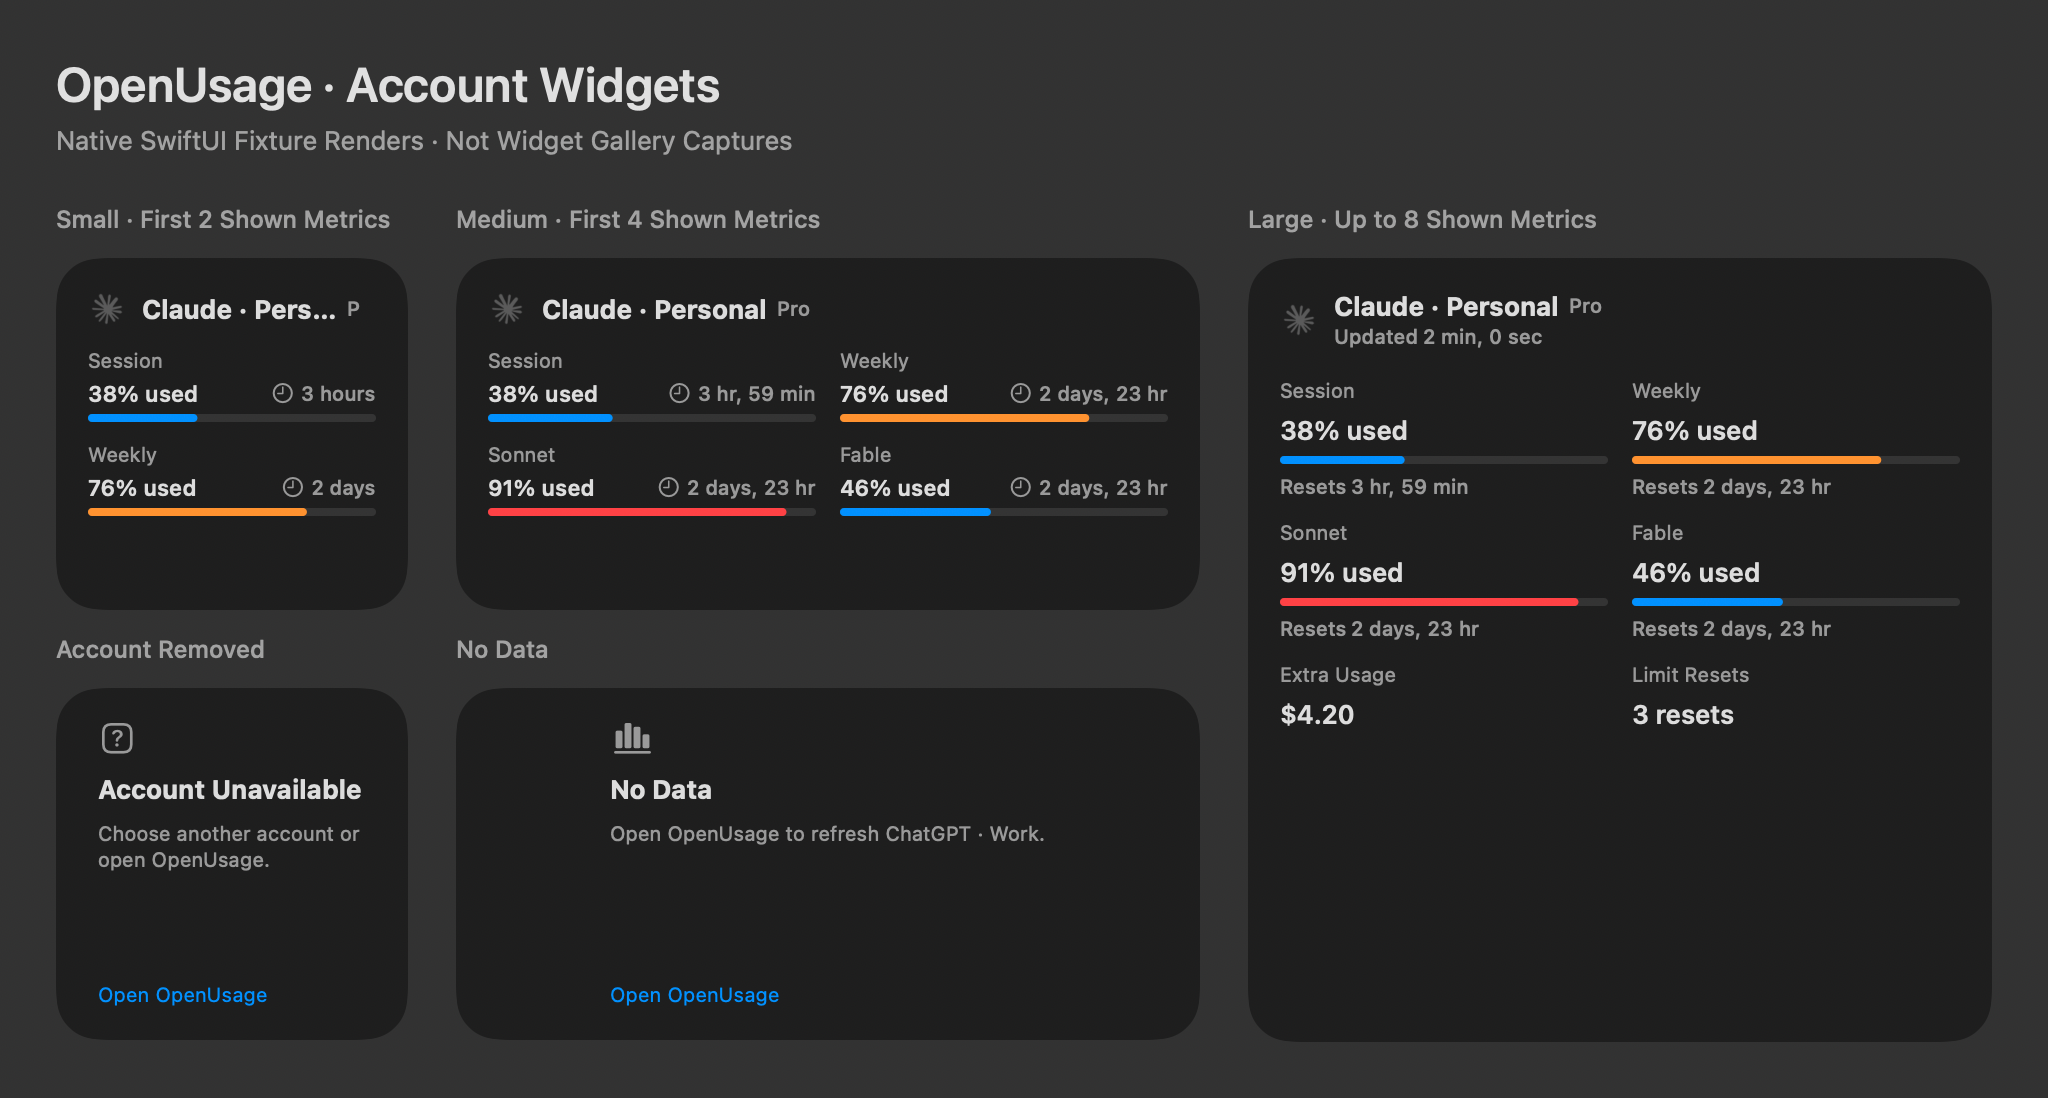
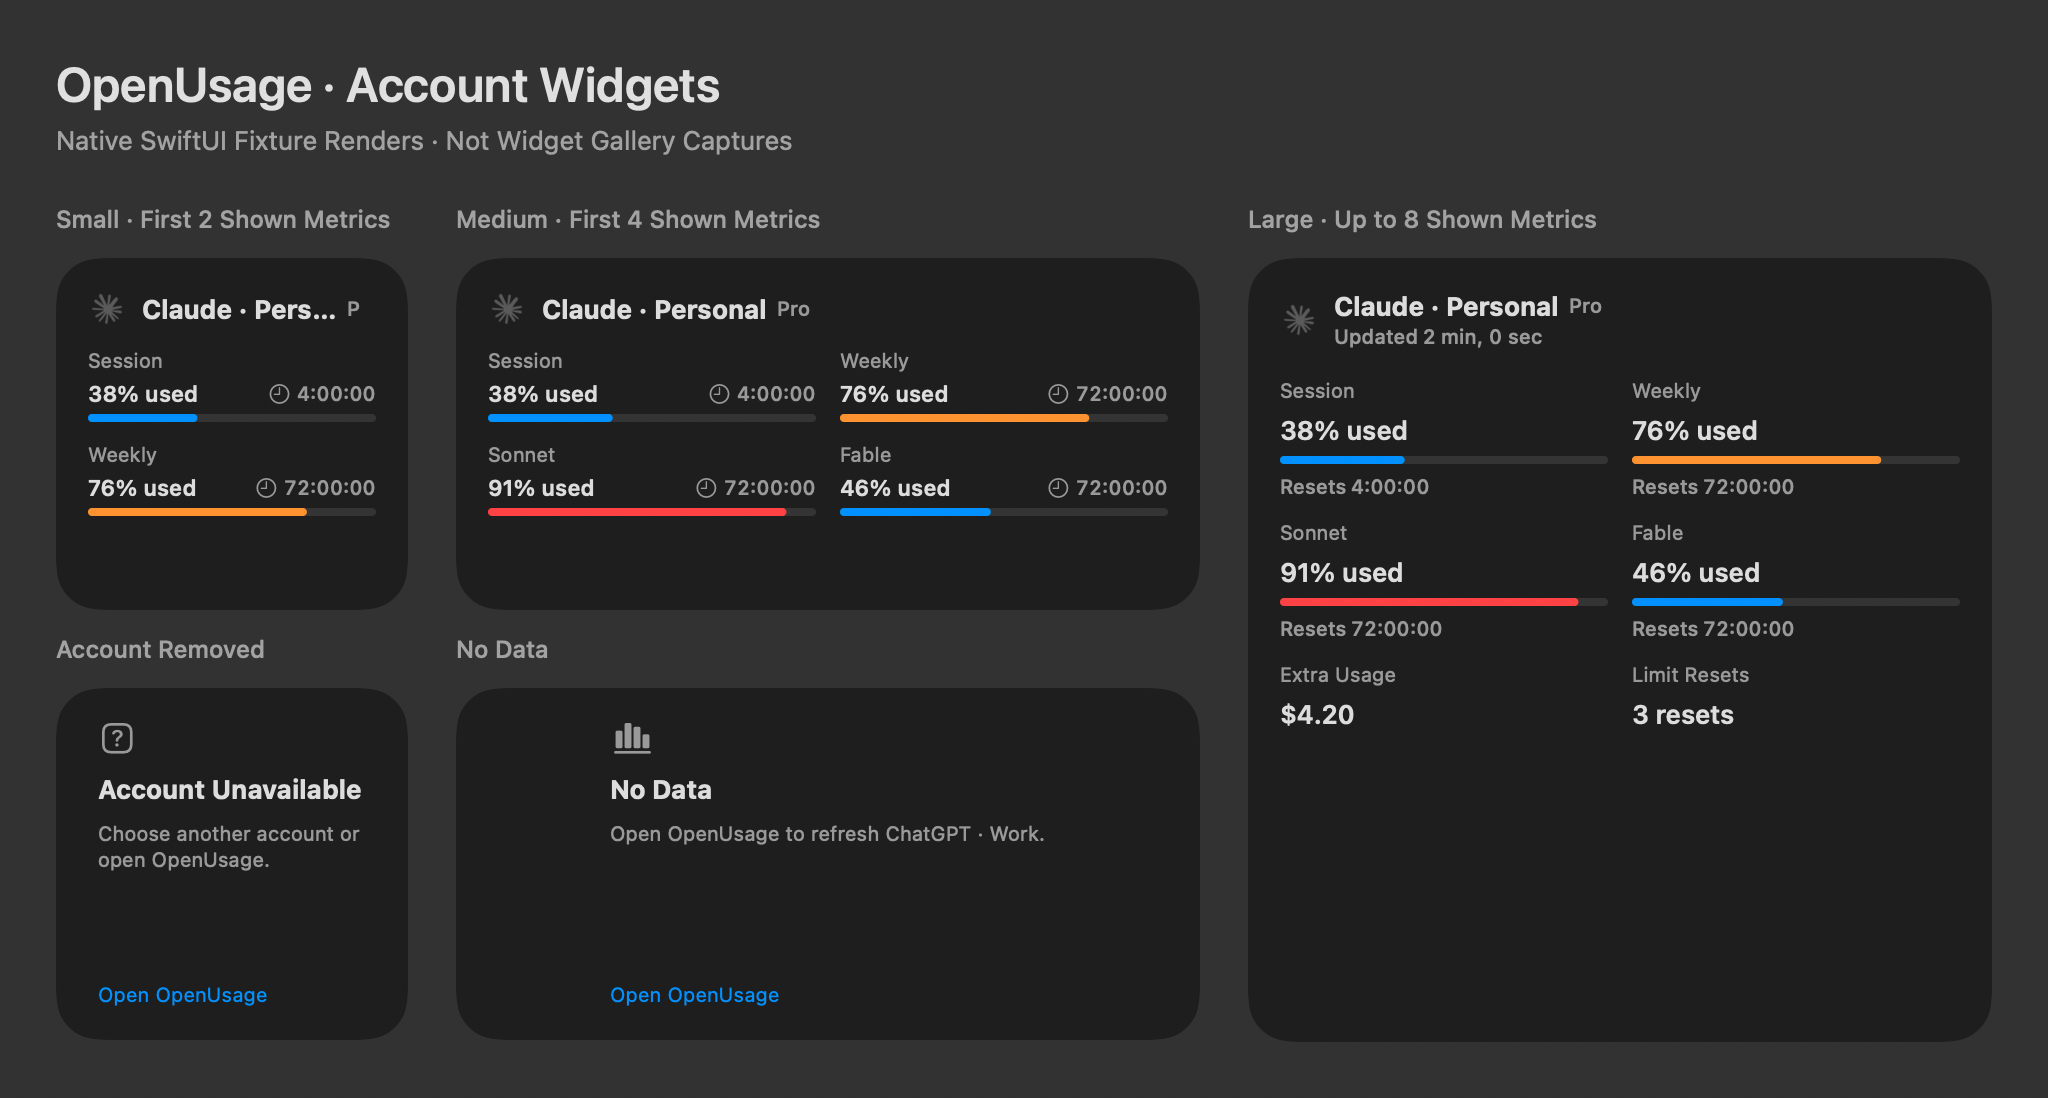
Use system widget timers and flush display changes on quit

diff --git a/Widgets/OpenUsageWidgets/ProviderUsageWidgetView.swift b/Widgets/OpenUsageWidgets/ProviderUsageWidgetView.swift
@@ -93,9 +93,7 @@ private struct ProviderContentView: View {
                     WidgetMetricView(
                         date: date,
                         metric: metric,
-                        compact: family != .systemLarge,
-                        // A small widget's single column only has room for the leading unit.
-                        countdownStyle: family == .systemSmall ? .leadingUnit : .relative
+                        compact: family != .systemLarge
                     )
                 }
             }
@@ -186,7 +184,6 @@ private struct WidgetMetricView: View {
     let date: Date
     let metric: WidgetMetricRecord
     let compact: Bool
-    let countdownStyle: CountdownStyle
 
     var body: some View {
         VStack(alignment: .leading, spacing: compact ? 3 : 5) {
@@ -200,24 +197,21 @@ private struct WidgetMetricView: View {
                     headline
                     Spacer(minLength: 6)
                     if let resetAt = metric.resetAt {
-                        let style = style(to: resetAt)
+                        let countdown = WidgetResetCountdown(resetAt: resetAt, at: date)
                         // Live-updating text fills whatever width it is offered and has no usable ideal
                         // width, so hidden static text reserves the widest countdown, the live text is
                         // drawn over it, and the headline scales down instead of the countdown truncating.
-                        ZStack {
-                            ForEach(countdownTemplates(style, to: resetAt), id: \.self) { template in
-                                clockLabel(Text(template)).hidden()
+                        clockLabel(Text(countdown.widthTemplate)).hidden()
+                            .fixedSize()
+                            .overlay {
+                                clockLabel(countdownText(countdown))
+                                    .multilineTextAlignment(.trailing)
+                                    .frame(maxWidth: .infinity, alignment: .trailing)
                             }
-                        }
-                        .fixedSize()
-                        .overlay {
-                            clockLabel(countdown(style, to: resetAt))
-                                .multilineTextAlignment(.trailing)
-                                .frame(maxWidth: .infinity, alignment: .trailing)
-                        }
-                        .font(.caption2)
-                        .foregroundStyle(.secondary)
-                        .lineLimit(1)
+                            .font(.caption2)
+                            .monospacedDigit()
+                            .foregroundStyle(.secondary)
+                            .lineLimit(1)
                     }
                 }
             } else {
@@ -236,9 +230,10 @@ private struct WidgetMetricView: View {
             } else if !compact, let resetAt = metric.resetAt {
                 HStack(spacing: 2) {
                     Text("Resets")
-                    countdown(.relative, to: resetAt)
+                    countdownText(WidgetResetCountdown(resetAt: resetAt, at: date))
                 }
                 .font(.caption2)
+                .monospacedDigit()
                 .foregroundStyle(.secondary)
                 .lineLimit(1)
             }
@@ -251,23 +246,14 @@ private struct WidgetMetricView: View {
         Text("\(Image(systemName: "clock")) \(text)")
     }
 
-    private func countdown(_ style: CountdownStyle, to resetAt: Date) -> Text {
-        Text(.currentDate, format: WidgetCountdownFormatStyle(resetAt: resetAt, style: style))
-    }
-
-    /// Within the last hour the relative style adds seconds ("49 min, 26 secs") and gets too wide, so
-    /// minutes alone take over one entry early, before the next entry could be drawn inside that hour.
-    private func style(to resetAt: Date) -> CountdownStyle {
-        let minutesStyleFrom: TimeInterval = 60 * 60 + WidgetTimelineSchedule.entrySpacing
-        if countdownStyle == .relative, resetAt.timeIntervalSince(date) < minutesStyleFrom { return .minutes }
-        return countdownStyle
-    }
-
-    /// The countdown as it reads at this entry and at the next one, digits widened to "8". Hidden copies
-    /// reserve that width, so the headline only scales down when the real countdown needs the room.
-    private func countdownTemplates(_ style: CountdownStyle, to resetAt: Date) -> [String] {
-        [date, date.addingTimeInterval(WidgetTimelineSchedule.entrySpacing)].map {
-            WidgetCountdownFormatStyle(resetAt: resetAt, style: style).format($0).replacing(/\d/, with: "8")
+    private func countdownText(_ countdown: WidgetResetCountdown) -> Text {
+        switch countdown {
+        case .remaining(let interval):
+            // The system renderer knows this timer type. Pause at zero even if the deadline entry
+            // arrives late; a timer without an explicit pause date would count upward afterward.
+            Text(timerInterval: interval, pauseTime: interval.upperBound, countsDown: true, showsHours: true)
+        case .due:
+            Text("soon")
         }
     }
 
@@ -288,8 +274,6 @@ private struct WidgetMetricView: View {
         }
     }
 }
-
-private typealias CountdownStyle = WidgetCountdownFormatStyle.Style
 
 /// A thin bar whose fill joins the accented group, so tinted widgets keep the fill and the translucent
 /// track apart (a `ProgressView` renders both in the same tint).

diff --git a/Tests/OpenUsageTests/WidgetResetCountdownTests.swift b/Tests/OpenUsageTests/WidgetResetCountdownTests.swift
@@ -1,0 +1,33 @@
+import Foundation
+import XCTest
+import OpenUsageWidgetSupport
+
+final class WidgetResetCountdownTests: XCTestCase {
+    private let resetAt = Date(timeIntervalSince1970: 1_800_000_000)
+
+    func testFutureResetUsesAnIntervalEndingAtTheDeadline() {
+        let entryDate = resetAt.addingTimeInterval(-300)
+        XCTAssertEqual(WidgetResetCountdown(resetAt: resetAt, at: entryDate), .remaining(entryDate...resetAt))
+    }
+
+    func testAtAndAfterResetUseStaticDueState() {
+        for elapsed: TimeInterval in [0, 300, 86_400] {
+            let countdown = WidgetResetCountdown(resetAt: resetAt, at: resetAt.addingTimeInterval(elapsed))
+            XCTAssertEqual(countdown, .due)
+            XCTAssertEqual(countdown.widthTemplate, "soon")
+        }
+    }
+
+    func testWidthReservesAllTimerDigitsIncludingRoundedHourBoundaries() {
+        let cases: [(TimeInterval, String)] = [
+            (300, "88:88"), (3_599, "88:88"), (3_599.5, "8:88:88"),
+            (3_600, "8:88:88"), (36_000, "88:88:88"), (360_000, "888:88:88")
+        ]
+        for (remaining, template) in cases {
+            XCTAssertEqual(
+                WidgetResetCountdown(resetAt: resetAt, at: resetAt.addingTimeInterval(-remaining)).widthTemplate,
+                template
+            )
+        }
+    }
+}

diff --git a/Tests/OpenUsageTests/WidgetBridgeTests.swift b/Tests/OpenUsageTests/WidgetBridgeTests.swift
@@ -164,6 +164,24 @@ final class WidgetBridgeExporterTests: XCTestCase {
 
 @MainActor
 final class WidgetBridgeCoordinatorTests: XCTestCase {
+    func testExplicitExportFlushesLayoutChangesBeforeTheDebounce() {
+        let fixture = Fixture(defaults: isolatedDefaults())
+        fixture.dataStore.snapshots[fixture.provider.id] = fixture.snapshot
+        let store = MemoryBridgeStore()
+        let coordinator = WidgetBridgeCoordinator(
+            exporter: fixture.exporter, store: store, debounceDuration: .seconds(60),
+            now: { fixture.now }, reload: {}
+        )
+        coordinator.start()
+        fixture.layout.setMetricEnabled(fixture.session.id, false)
+        XCTAssertTrue(store.documents.last?.providers.first?.metrics.contains { $0.id == fixture.session.id } == true)
+
+        coordinator.exportIfChanged()
+
+        XCTAssertEqual(store.documents.count, 2)
+        XCTAssertFalse(store.documents.last?.providers.first?.metrics.contains { $0.id == fixture.session.id } == true)
+    }
+
     func testTimestampOnlyRefreshWritesWithoutReloadUntilFreshnessUpdateIsDue() {
         let fixture = Fixture(defaults: isolatedDefaults())
         var clock = fixture.now

diff --git a/Sources/OpenUsageWidgetSupport/WidgetTimelineSchedule.swift b/Sources/OpenUsageWidgetSupport/WidgetTimelineSchedule.swift
@@ -6,15 +6,16 @@ import Foundation
 public enum WidgetTimelineSchedule {
     public static let staleInterval: TimeInterval = 30 * 60
 
-    /// The longest gap between two entries. Countdown layouts reserve room for the text they show until
-    /// the next entry.
+    /// The longest gap between two entries.
     public static let entrySpacing: TimeInterval = 30 * 60
 
     /// How far ahead entries are written.
     public static let horizon: TimeInterval = 4 * 60 * 60
 
-    /// `now`, then one entry per `entrySpacing` through `horizon`.
-    public static func entryDates(from now: Date) -> [Date] {
-        stride(from: 0, through: horizon, by: entrySpacing).map { now.addingTimeInterval($0) }
+    /// Regular entries plus upcoming reset deadlines, so expired windows can show static "soon" text.
+    public static func entryDates(from now: Date, resetDates: [Date] = []) -> [Date] {
+        let end = now.addingTimeInterval(horizon)
+        let regular = stride(from: 0, through: horizon, by: entrySpacing).map { now.addingTimeInterval($0) }
+        return Set(regular + resetDates.filter { $0 > now && $0 <= end }).sorted()
     }
 }

diff --git a/Tests/OpenUsageTests/WidgetTimelineScheduleTests.swift b/Tests/OpenUsageTests/WidgetTimelineScheduleTests.swift
@@ -2,6 +2,19 @@ import XCTest
 import OpenUsageWidgetSupport
 
 final class WidgetTimelineScheduleTests: XCTestCase {
+    func testResetDeadlinesWithinTheHorizonAreIncludedOnce() {
+        let now = Date(timeIntervalSince1970: 1_800_000_000)
+        let deadline = now.addingTimeInterval(10)
+        let end = now.addingTimeInterval(WidgetTimelineSchedule.horizon)
+        let dates = WidgetTimelineSchedule.entryDates(from: now, resetDates: [
+            now.addingTimeInterval(-1), now, deadline, deadline,
+            now.addingTimeInterval(WidgetTimelineSchedule.entrySpacing), end, end.addingTimeInterval(1)
+        ])
+
+        XCTAssertEqual(dates, (WidgetTimelineSchedule.entryDates(from: now) + [deadline]).sorted())
+        XCTAssertEqual(WidgetResetCountdown(resetAt: deadline, at: dates[1]), .due)
+    }
+
     func testEntriesStayEvenlySpacedPastTheRequestedReload() {
         // WidgetKit can postpone the reload, so countdown layouts rely on entries already in the timeline.
         let now = Date(timeIntervalSince1970: 1_800_000_000)

diff --git a/Widgets/OpenUsageWidgets/ProviderUsageTimelineProvider.swift b/Widgets/OpenUsageWidgets/ProviderUsageTimelineProvider.swift
@@ -40,7 +40,12 @@ struct ProviderUsageTimelineProvider: AppIntentTimelineProvider {
     ) async -> Timeline<ProviderUsageEntry> {
         let now = Date()
         let selection = selection(for: configuration)
-        var dates = WidgetTimelineSchedule.entryDates(from: now)
+        let resetDates: [Date] = if case .provider(let provider) = selection {
+            provider.metrics.filter(\.hasData).compactMap(\.resetAt)
+        } else {
+            []
+        }
+        var dates = WidgetTimelineSchedule.entryDates(from: now, resetDates: resetDates)
 
         if case .provider(let provider) = selection, let refreshedAt = provider.refreshedAt {
             dates.append(max(
@@ -50,7 +55,7 @@ struct ProviderUsageTimelineProvider: AppIntentTimelineProvider {
         }
 
         return Timeline(
-            entries: dates.sorted().map { entry(for: selection, at: $0) },
+            entries: Set(dates).sorted().map { entry(for: selection, at: $0) },
             policy: .after(now.addingTimeInterval(fallbackInterval))
         )
     }

diff --git a/Sources/OpenUsageWidgetSupport/WidgetResetCountdown.swift b/Sources/OpenUsageWidgetSupport/WidgetResetCountdown.swift
@@ -1,0 +1,22 @@
+import Foundation
+
+/// Evaluated when the extension creates a view. Only system timer text or a plain string is archived.
+public enum WidgetResetCountdown: Equatable, Sendable {
+    case remaining(ClosedRange<Date>)
+    case due
+
+    public init(resetAt: Date, at entryDate: Date) {
+        self = entryDate < resetAt ? .remaining(entryDate...resetAt) : .due
+    }
+
+    /// Live timer text has no ideal width. Reserve its widest hours/minutes/seconds representation.
+    public var widthTemplate: String {
+        switch self {
+        case .remaining(let interval):
+            let hours = Int(ceil(interval.upperBound.timeIntervalSince(interval.lowerBound)) / 3_600)
+            return hours == 0 ? "88:88" : String(repeating: "8", count: String(hours).count) + ":88:88"
+        case .due:
+            return "soon"
+        }
+    }
+}

diff --git a/Sources/OpenUsage/App/AppContainer.swift b/Sources/OpenUsage/App/AppContainer.swift
@@ -77,6 +77,10 @@ final class AppContainer {
         refreshTask?.cancel()
     }
 
+    func flushWidgetBridge() {
+        widgetBridgeCoordinator?.exportIfChanged()
+    }
+
     func resetClaim(for providerID: String) -> ResetClaimService? {
         guard let runtime = providers.first(where: { $0.provider.id == providerID }) else { return nil }
         return runtime.resetClaimService { [dataStore] in

diff --git a/Sources/OpenUsage/App/OpenUsageApp.swift b/Sources/OpenUsage/App/OpenUsageApp.swift
@@ -43,6 +43,7 @@ public final class AppDelegate: NSObject, NSApplicationDelegate {
     }
 
     public func applicationWillTerminate(_ notification: Notification) {
+        container?.flushWidgetBridge()
         container?.telemetry.flush()
     }
 

diff --git a/docs/architecture.md b/docs/architecture.md
@@ -4,7 +4,7 @@ OpenUsage is a SwiftPM package with `OpenUsage` (the app library),
 `OpenUsageApp` (a thin executable), and `OpenUsageCLI` (the `openusage` command, shipped at
 `Contents/Helpers/openusage`). Swift 6 with strict concurrency; SwiftUI content hosted in an
 AppKit-owned status item and panel. `OpenUsageWidgetSupport` contains the display-only bridge records
-and live countdown formatter.
+and reset timeline helpers.
 `OpenUsageWidgets.xcodeproj` builds the separate WidgetKit extension.
 
 ## Composition root
@@ -67,11 +67,14 @@ display-ready document. `WidgetBridgeCoordinator` observes account, snapshot, la
 changes, atomically writes changed content to the channel's App Group, and requests a WidgetKit
 reload. Fetch-time-only changes are saved without requesting a redraw on every refresh; a periodic
 freshness request keeps the widget's age current. Account removal removes its exported values as well.
+Termination writes pending display changes before the host exits.
 
 The extension renders the shared records directly. It never reads credentials, refreshes tokens or
 calls provider APIs. It keeps the last values when the host quits and marks them outdated after
-30 minutes. Widget clicks open the account in the dashboard, its Accounts detail when all metrics are
-hidden, or the dashboard for a missing account. Startup links wait until the status item is ready.
+30 minutes. Reset deadlines have preloaded timeline entries; built-in system timers pause at zero
+until the deadline entry replaces them with static text. Widget clicks open the account in the
+dashboard, its Accounts detail when all metrics are hidden, or the dashboard for a missing account.
+Startup links wait until the status item is ready.
 
 The build scripts embed and sign the extension before sealing the host, with matching App Group
 entitlements. Development and release bundles have separate groups and URL schemes.

diff --git a/docs/macos-widgets.md b/docs/macos-widgets.md
@@ -23,7 +23,7 @@ removed from OpenUsage, opens the dashboard for recovery.
 The widget never reads credentials or contacts providers itself. OpenUsage handles its normal
 five-minute refresh and shares display-ready values with WidgetKit. Keep OpenUsage running for
 updates; **Launch at Login** is the easiest way to do that. Account names, visibility and order follow
-changes in the app too.
+changes in the app too, including changes made just before quitting.
 
 When OpenUsage is closed, the widget keeps the last good values and marks them **Outdated** after
 about 30 minutes. A refresh failure also keeps the last good values and shows a generic warning;
@@ -38,5 +38,6 @@ Unreadable shared data shows **Unable to Read Data**; data requiring a newer wid
 
 WidgetKit controls the exact redraw time, so a widget can update later than the in-app refresh.
 Fetch-time-only changes request a redraw at most once every 15 minutes; changed values request one
-sooner. Reset countdowns continue updating without another provider request and read **soon** once
-the reset time passes, until the app supplies an updated window.
+sooner. Reset timers continue updating without another provider request and pause at zero at the
+deadline. The preloaded timeline switches them to **soon** when WidgetKit displays the reset entry,
+until the app supplies an updated window.

diff --git a/README.md b/README.md
@@ -64,6 +64,7 @@ what each one shows and what each sign-in grants.
   resets. Rest the pointer on the count to see when each expires, and spend one from there.
 - **[macOS widgets](docs/macos-widgets.md).** Put an account's usage on the desktop or in Notification
   Center. Widgets follow its shown metrics and saved order, with values supplied by the running app.
+  Reset timers stop at zero while waiting for an updated window.
 - **Share.** Rest the pointer on a provider's header and click the copy button at its right, or
   right-click the provider and choose Share Screenshot, to copy a PNG of its header and card, with
   every account, to the clipboard; from an account's right-click, that account alone. The picture uses
